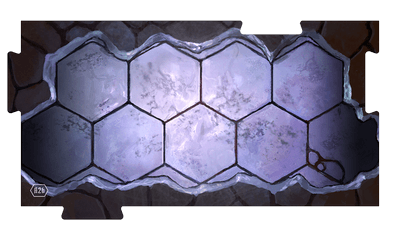
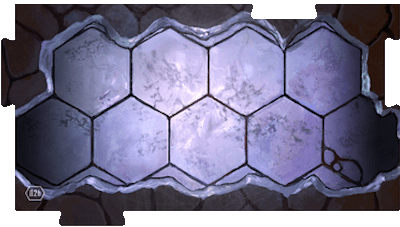
Normalizes A and B tile sets and adds B tile set

diff --git a/static/scss/main.scss b/static/scss/main.scss
@@ -34,22 +34,43 @@ $hexRotation: 60deg;
         position:relative;
         overflow: visible;
 
-        $tiles: 'a1a';
-        @each $tile in $tiles {
-            &[data-board-ref="#{$tile}"]:before {
-                content:'';
-                position:absolute;
-                background-image: url('/img/map-tiles/#{$tile}.png');
-                background-repeat: no-repeat;
-                width: 1024px;
-                height: 1024px;
-                top: 0;
-                left: -1px;
-            }
+        &[data-board-ref]:before {
+            content:'';
+            position:absolute;
+            background-repeat: no-repeat;
+            width: 1024px;
+            height: 1024px;
         }
 
-        &[data-board-ref="a1a"]:before {
-            top: 46px;
+        $tiles:
+            ('a1a', -1px, 46px)
+            ('a1b', -19px, 46px)
+            ('a2a', -3px, 46px)
+            ('a2b', -18px, 46px)
+            ('a3a', -3px, 46px)
+            ('a3b', -18px, 46px)
+            ('a4a', -3px, 46px)
+            ('a4b', -18px, 46px)
+
+            ('b1a', -21px, -53px)
+            ('b1b', -21px, -53px)
+            ('b2a', -21px, -53px)
+            ('b2b', -21px, -53px)
+            ('b3a', -21px, -53px)
+            ('b3b', -21px, -53px)
+            ('b4a', -21px, -53px)
+            ('b4b', -21px, -53px)
+        ;
+        @each $tile in $tiles {
+            $key: nth($tile, 1);
+            $left: nth($tile, 2);
+            $top: nth($tile, 3);
+
+            &[data-board-ref='#{$key}']:before {
+                background-image: url('/img/map-tiles/#{$key}.png');
+                left: $left;
+                top: $top;
+            }
         }
 
         .cell {
